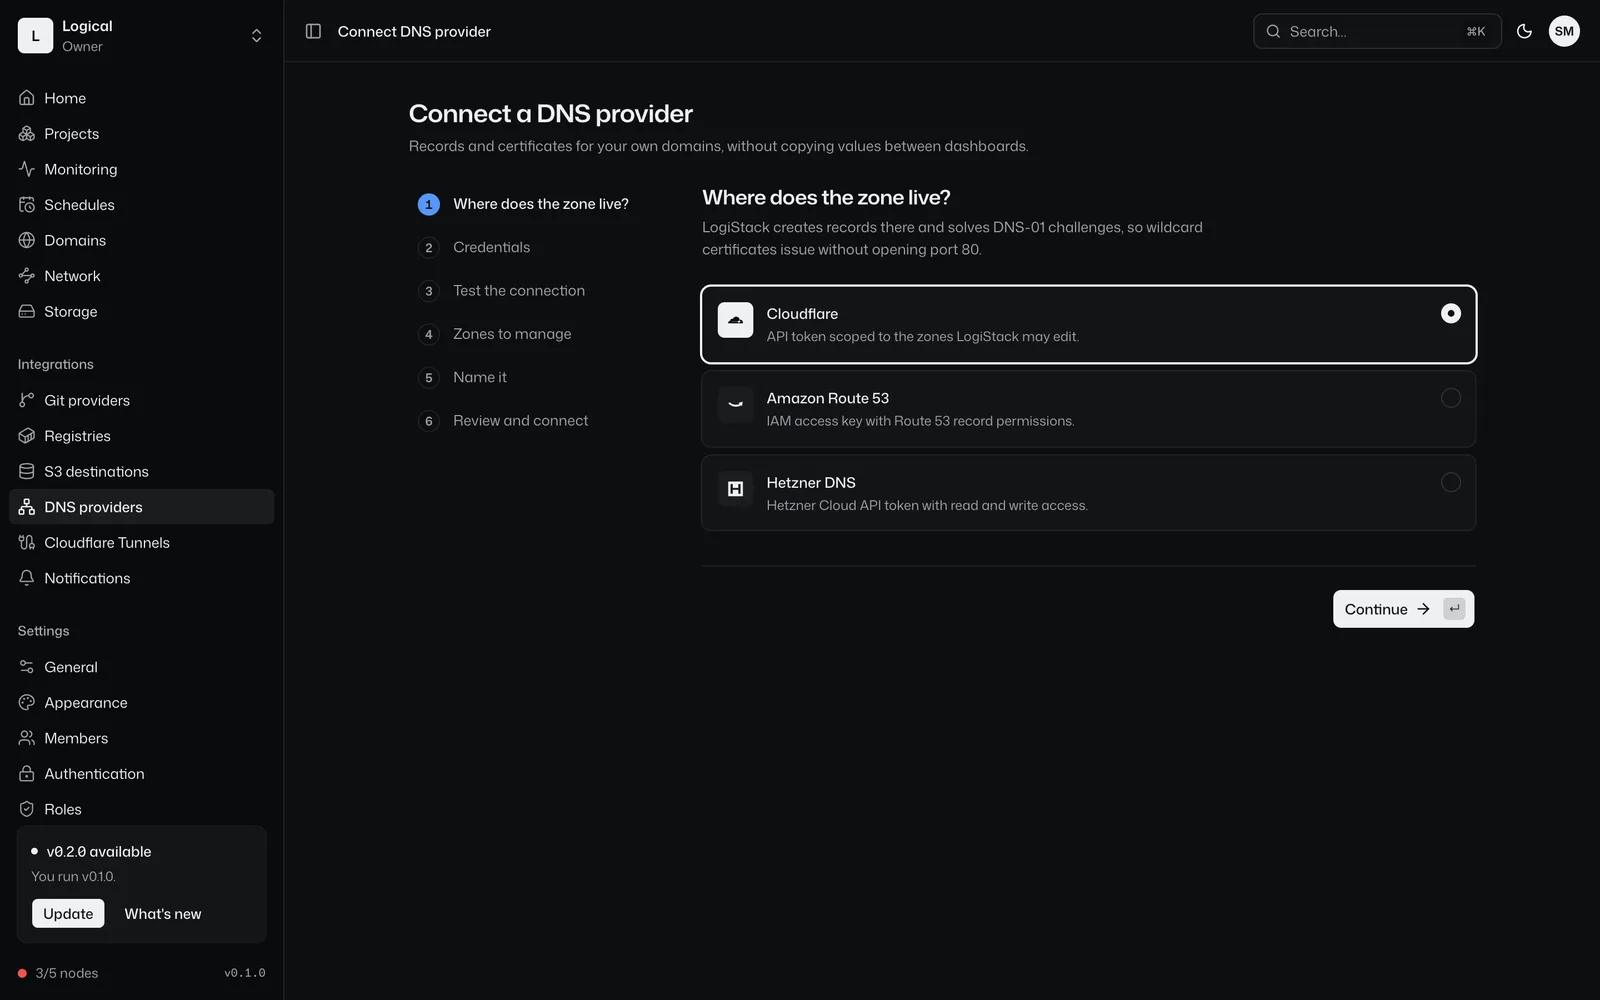
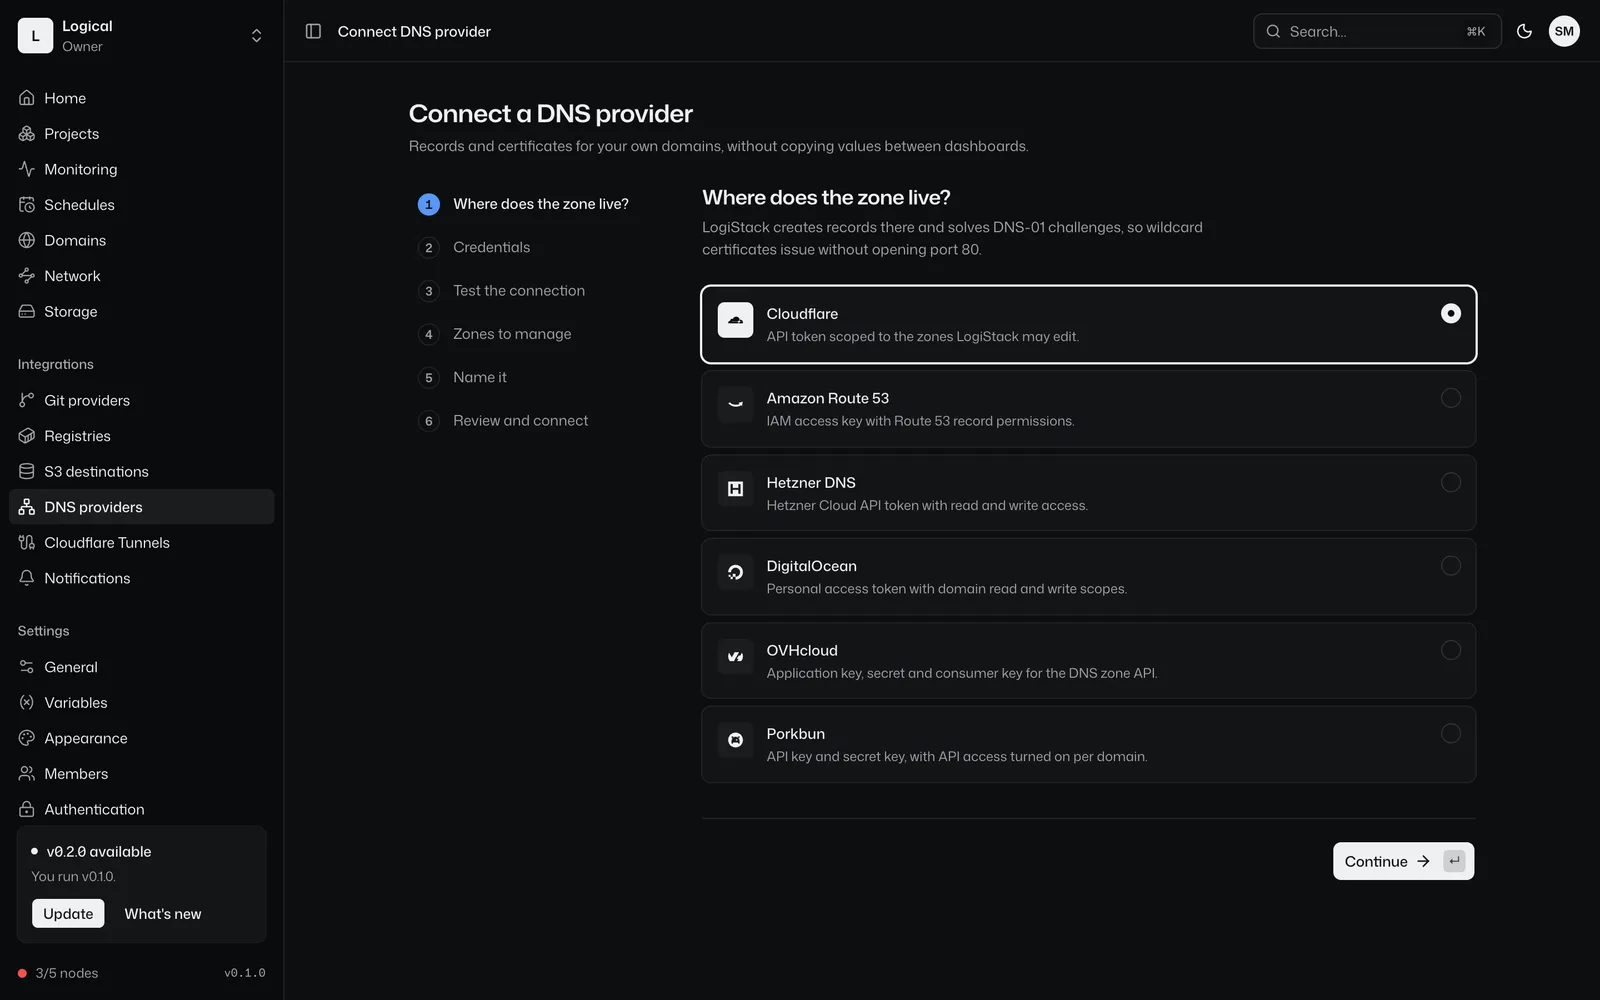
docs(docs-site): static builds, redirects, new DNS providers, shared variables
Document the Static site builder, the Redirect to field, DigitalOcean,
OVHcloud and Porkbun credentials, the shared variables pages and
Duplicate environment, replacing the API workarounds the pages
described before. New and refreshed screenshots.

diff --git a/docs-site/scripts/screenshots.ts b/docs-site/scripts/screenshots.ts
@@ -32,6 +32,8 @@ export const shots: Record<string, Shot> = {
 	"project-previews": `${P}/previews`,
 	"project-usage": `${P}/usage`,
 	"project-import": `${P}/import`,
+	"project-variables": `${P}/variables?env=env_storefront_production`,
+	"environment-duplicate": `${P}/duplicate?from=env_storefront_production`,
 	"service-new": `${P}/services/new`,
 	"service-overview": SVC,
 	"service-deployments": `${SVC}/deployments`,
@@ -95,12 +97,14 @@ export const shots: Record<string, Shot> = {
 	"settings-ssh-keys": "/settings/ssh-keys",
 	"settings-updates": "/settings/updates",
 	"settings-appearance": "/settings/appearance",
+	"settings-variables": "/settings/variables",
 	"settings-audit-log": "/settings/audit-log",
 	"settings-migrate": "/settings/migrate",
 	"account-security": "/account/security",
 	"two-factor-challenge": "/two-factor",
 	"sign-in-sso": { path: "/sign-in", click: ["Continue with SSO"] },
 	"project-new-dialog": { path: "/projects", click: ["New project"] },
+	"environment-menu": { path: P, click: ["Production settings"] },
 	"invite-dialog": { path: "/settings/members", click: ["Invite member"] },
 	"role-editor": { path: "/settings/roles", click: ["Create role"] },
 	"domain-add-dialog": { path: `${SVC}/domains`, click: ["Add domain"] },
